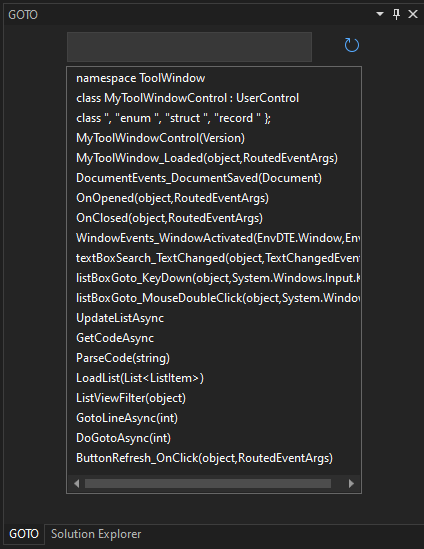
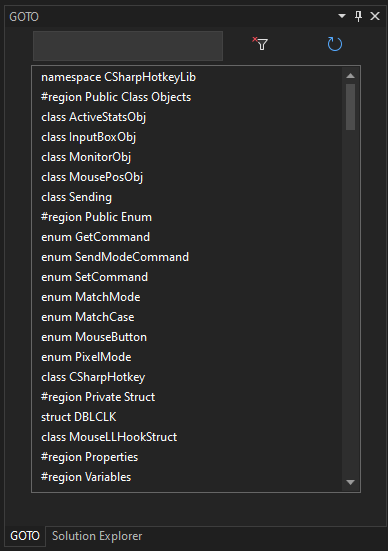
v1.3

diff --git a/VSIX_Goto/ToolWindow/ToolWindows/MyToolWindowControl.xaml b/VSIX_Goto/ToolWindow/ToolWindows/MyToolWindowControl.xaml
@@ -10,49 +10,54 @@
              xmlns:toolkit="clr-namespace:Community.VisualStudio.Toolkit;assembly=Community.VisualStudio.Toolkit"
              toolkit:Themes.UseVsTheme="True"
              mc:Ignorable="d"
-             d:DesignHeight="475" d:DesignWidth="300"
-             Name="GotoToolWindow"  Loaded="MyToolWindow_Loaded">
-    <Grid>
-        <StackPanel Orientation="Vertical">
-            <DockPanel Height="35" Width="300" Margin="0,3,0,0">
-                <TextBox x:Name="textBoxFilter" DockPanel.Dock="Left" Height="30" TextWrapping="NoWrap" Width="245" Margin="3,3,0,0" TextChanged="textBoxSearch_TextChanged"/>
-                <Button Click="ButtonRefresh_OnClick" ToolTip="Refresh" Margin="3,3,3,3">
-                    <Button.Template>
-                        <ControlTemplate>
-                            <imaging:CrispImage Width="16" Height="16" Moniker="{x:Static catalog:KnownMonikers.Refresh}" />
-                        </ControlTemplate>
-                    </Button.Template>
-                </Button>
-            </DockPanel>
+             d:DesignHeight="475" d:DesignWidth="340"
+             Name="GotoToolWindow">
 
-            <ListView x:Name="listView" Height="428" Width="296" Margin="0,3,0,0" KeyDown="listBoxGoto_KeyDown" MouseDoubleClick="listBoxGoto_MouseDoubleClick" SelectionMode="Single">
-                <ListView.ItemContainerStyle>
-                    <Style TargetType="{x:Type ListViewItem}">
-                        <Style.Triggers>
-                            <Trigger Property="IsSelected" Value="true" >
-                                <Setter Property="Foreground" Value="White" />
-                                <Setter Property="Background" Value="Black" />
-                            </Trigger>
-                            <Trigger Property="IsMouseOver" Value="true">
-                                <Setter Property="Background" Value="Transparent"/>
-                                <Setter Property="BorderBrush" Value="Yellow"/>
-                            </Trigger>
-                        </Style.Triggers>
-                    </Style>
-                </ListView.ItemContainerStyle>
-                <ListView.View>
-                    <GridView>
-                        <GridViewColumn Header="Text" Width="300" DisplayMemberBinding="{Binding Text}" />
-                        <GridViewColumn Header="Number" Width="0" DisplayMemberBinding="{Binding Number}" />
-                        <GridView.ColumnHeaderContainerStyle>
-                            <Style TargetType="GridViewColumnHeader">
-                                <Setter Property="Visibility" Value="Collapsed" />
-                            </Style>
-                        </GridView.ColumnHeaderContainerStyle>
-                    </GridView>
-                </ListView.View>
-            </ListView>
+    <StackPanel Orientation="Vertical">
+        <StackPanel Orientation="Horizontal" HorizontalAlignment="Stretch" Height="35" Width="326">
+            <TextBox x:Name="textBoxFilter" Height="30" TextWrapping="NoWrap" Width="190" Margin="0,3,0,0" TextChanged="textBoxSearch_TextChanged" HorizontalAlignment="Left" VerticalAlignment="Center"/>
+            <Button Click="ButtonClear_OnClick" ToolTip="Clear Filter" HorizontalAlignment="Left" VerticalAlignment="Center">
+                <Button.Template>
+                    <ControlTemplate>
+                        <imaging:CrispImage Width="16" Height="16" Moniker="{x:Static catalog:KnownMonikers.DeleteFilter}" />
+                    </ControlTemplate>
+                </Button.Template>
+            </Button>
+            <Button Click="ButtonRefresh_OnClick" ToolTip="Refresh" HorizontalAlignment="Left" VerticalAlignment="Center">
+                <Button.Template>
+                    <ControlTemplate>
+                        <imaging:CrispImage Width="16" Height="16" Moniker="{x:Static catalog:KnownMonikers.Refresh}" />
+                    </ControlTemplate>
+                </Button.Template>
+            </Button>
         </StackPanel>
-    </Grid>
 
+        <ListView x:Name="listView" Height="428" Width="330" Margin="0,3,0,0" KeyDown="listBoxGoto_KeyDown" MouseDoubleClick="listBoxGoto_MouseDoubleClick" SelectionMode="Single" ScrollViewer.HorizontalScrollBarVisibility="Auto">
+            <ListView.ItemContainerStyle>
+                <Style TargetType="{x:Type ListViewItem}">
+                    <Style.Triggers>
+                        <Trigger Property="IsSelected" Value="true" >
+                            <Setter Property="Foreground" Value="White" />
+                            <Setter Property="Background" Value="Black" />
+                        </Trigger>
+                        <Trigger Property="IsMouseOver" Value="true">
+                            <Setter Property="Background" Value="Transparent"/>
+                            <Setter Property="BorderBrush" Value="Yellow"/>
+                        </Trigger>
+                    </Style.Triggers>
+                </Style>
+            </ListView.ItemContainerStyle>
+            <ListView.View>
+                <GridView>
+                    <GridView.ColumnHeaderContainerStyle>
+                        <Style TargetType="{x:Type GridViewColumnHeader}">
+                            <Setter Property="Visibility" Value="Collapsed" />
+                        </Style>
+                    </GridView.ColumnHeaderContainerStyle>
+                    <GridViewColumn Header="Text" Width="300" DisplayMemberBinding="{Binding Text}" />
+                    <GridViewColumn Header="Number" Width="0" DisplayMemberBinding="{Binding Number}" />
+                </GridView>
+            </ListView.View>
+        </ListView>
+    </StackPanel>
 </UserControl>

diff --git a/VSIX_Goto/ToolWindow/ToolWindows/MyToolWindowControl.xaml.cs b/VSIX_Goto/ToolWindow/ToolWindows/MyToolWindowControl.xaml.cs
@@ -47,7 +47,6 @@ namespace ToolWindow
     public partial class MyToolWindowControl : UserControl
     {
         private string CurrentActiveDocument { get; set; }
-
         DTE dte { get; set; }= null;
         EnvDTE.WindowEvents winEvents { get; set; } = null;
         EnvDTE.DocumentEvents docEvents { get; set; } = null;
@@ -80,11 +79,6 @@ namespace ToolWindow
 
         }
 
-        private void MyToolWindow_Loaded(object sender, RoutedEventArgs e)
-        {
-
-        }
-
         private void DocumentEvents_DocumentSaved(Document Document)
             => UpdateListAsync().FireAndForget();
 
@@ -100,16 +94,16 @@ namespace ToolWindow
 
         private void WindowEvents_WindowActivated(EnvDTE.Window GotFocus, EnvDTE.Window LostFocus)
         {
-            _ = Task.Run(async () =>
+            Task.Run(async () =>
             {
                 await ThreadHelper.JoinableTaskFactory.SwitchToMainThreadAsync();
 
-                if (GotFocus.Document.FullName != CurrentActiveDocument)
+                if (CurrentActiveDocument != GotFocus.Document.FullName)
                 {
                     CurrentActiveDocument = GotFocus.Document.FullName;
                     UpdateListAsync().FireAndForget();
                 }
-            });
+            }).FireAndForget();
 
         }
 
@@ -124,14 +118,14 @@ namespace ToolWindow
             {
                 ListItem item = new ListItem();
                 item = (ListItem)listView.Items[listView.SelectedIndex];
-                _ = GotoLineAsync(item.Number);
+                GotoLineAsync(item.Number).FireAndForget();
             }
         }
         private void listBoxGoto_MouseDoubleClick(object sender, System.Windows.Input.MouseButtonEventArgs e)
         {
             ListItem item = new ListItem();
             item = (ListItem)listView.Items[listView.SelectedIndex];
-            _ = GotoLineAsync(item.Number);
+            GotoLineAsync(item.Number).FireAndForget();
         }
 
         private async Task UpdateListAsync()
@@ -156,7 +150,6 @@ namespace ToolWindow
 
             try
             {
-                DTE dte = Package.GetGlobalService(typeof(DTE)) as DTE;
 
                 if (dte.ActiveDocument == null)
                     return String.Empty;
@@ -241,6 +234,11 @@ namespace ToolWindow
             }
 
             return string.Empty;
+        }
+
+        private void ButtonClear_OnClick(object sender, RoutedEventArgs e)
+        {
+            textBoxFilter.Clear();
         }
 
         private void ButtonRefresh_OnClick(object sender, RoutedEventArgs e)
